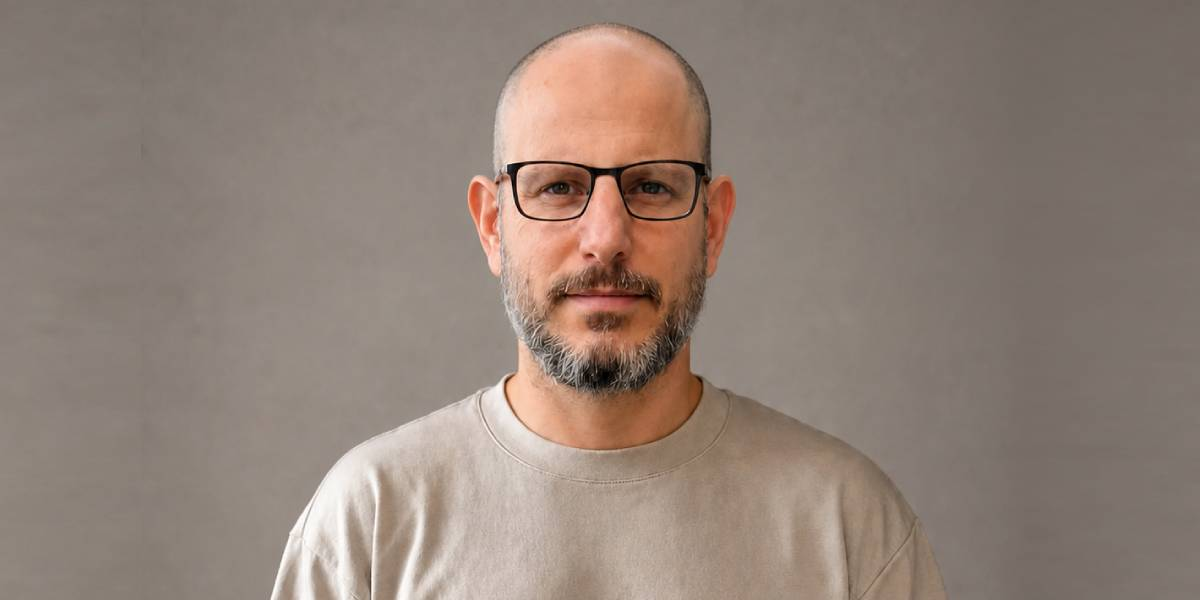
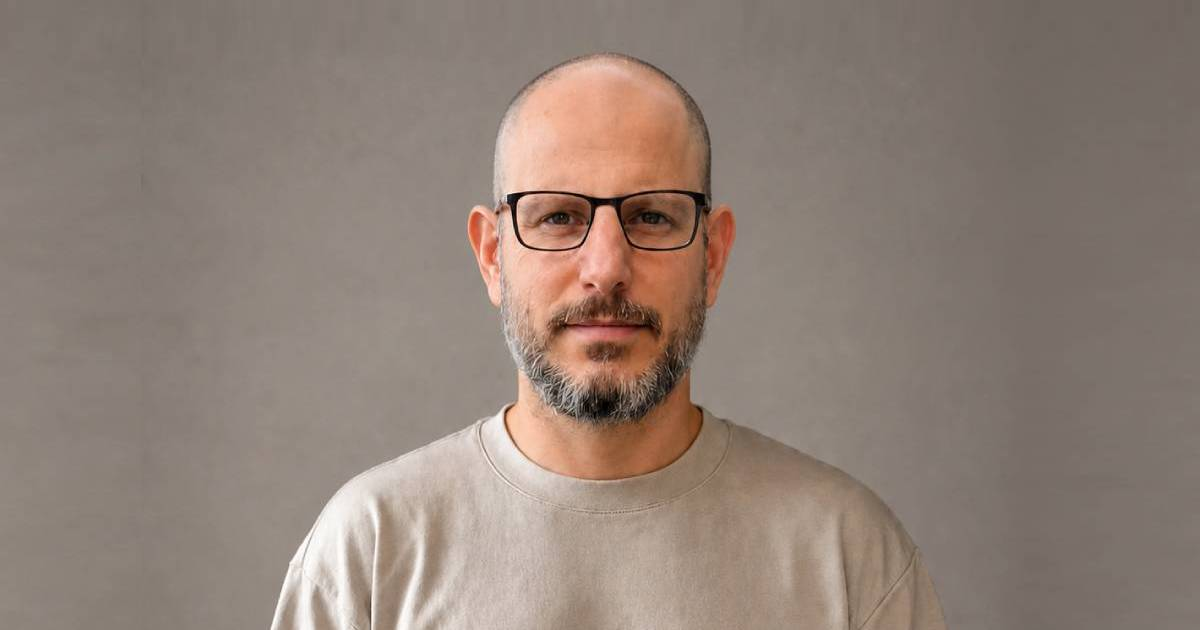
Update problem section copy to plural you and rephrase paragraph

diff --git a/index.html b/index.html
@@ -100,8 +100,8 @@ height="0" width="0" style="display:none;visibility:hidden"></iframe></noscript>
 <section class="uk-section problem" id="problem">
   <div class="section-head uk-container narrow">
     <span class="eyebrow" trigger_box>האתגר</span>
-    <h2 split>משהו לא עובד בשיווק.<br><span class="uk-primary-span">אבל אתה לא בטוח מה.</span></h2>
-    <p trigger_box>הרבה בעלי עסקים מרגישים שהם משקיעים בפרסום בלי לדעת אם זה באמת עובד. אלו הסימנים הכי נפוצים שראיתי אצל עשרות עסקים, ולרוב יש להם סיבה ברורה וניתנת לתיקון.</p>
+    <h2 split>משהו לא עובד בשיווק.<br>אבל אתם <span class="uk-primary-span">לא בטוחים מה.</span></h2>
+    <p trigger_box>הרבה בעלי עסקים משקיעים בפרסום בלי לדעת אם זה באמת עובד. אלו הבעיות הכי נפוצות שראיתי אצל עשרות עסקים, ולרוב יש להן סיבה ברורה וניתנת לתיקון.</p>
   </div>
   <div class="problem-grid uk-container medium">
     <div class="problem-card" trigger_box>
